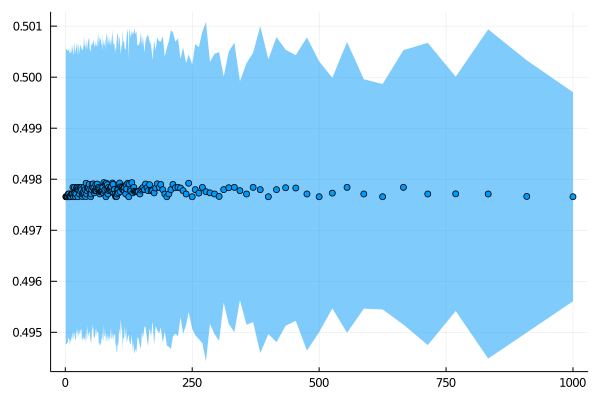
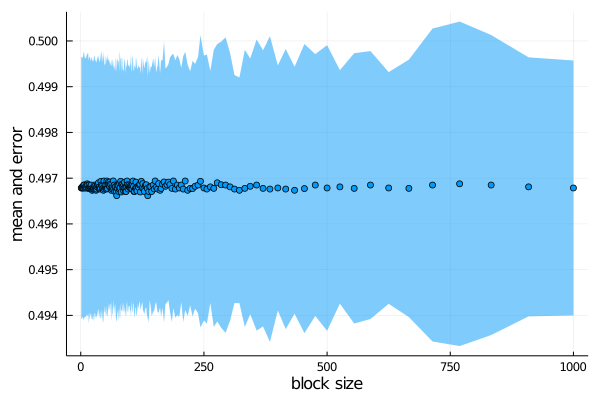
updated readme

diff --git a/README.md b/README.md
@@ -25,13 +25,17 @@ julia> avg, err, sizes = block_average(x)
 
 julia> using Plots
 
-julia> scatter(sizes,avg,ribbon=err,label="")
+julia> scatter(sizes,avg,ribbon=err,label="",ylabel="Mean and error",xlabel="Block size")
 
 ```
 
 Results in:
 
 ![random.png](./docs/images/random.png)
+
+Note that the average (scatter points) and the error of the estimate of the mean are roughly constant with block size, indicating that the data is not correlated "in time". 
+
+
 
 
 
